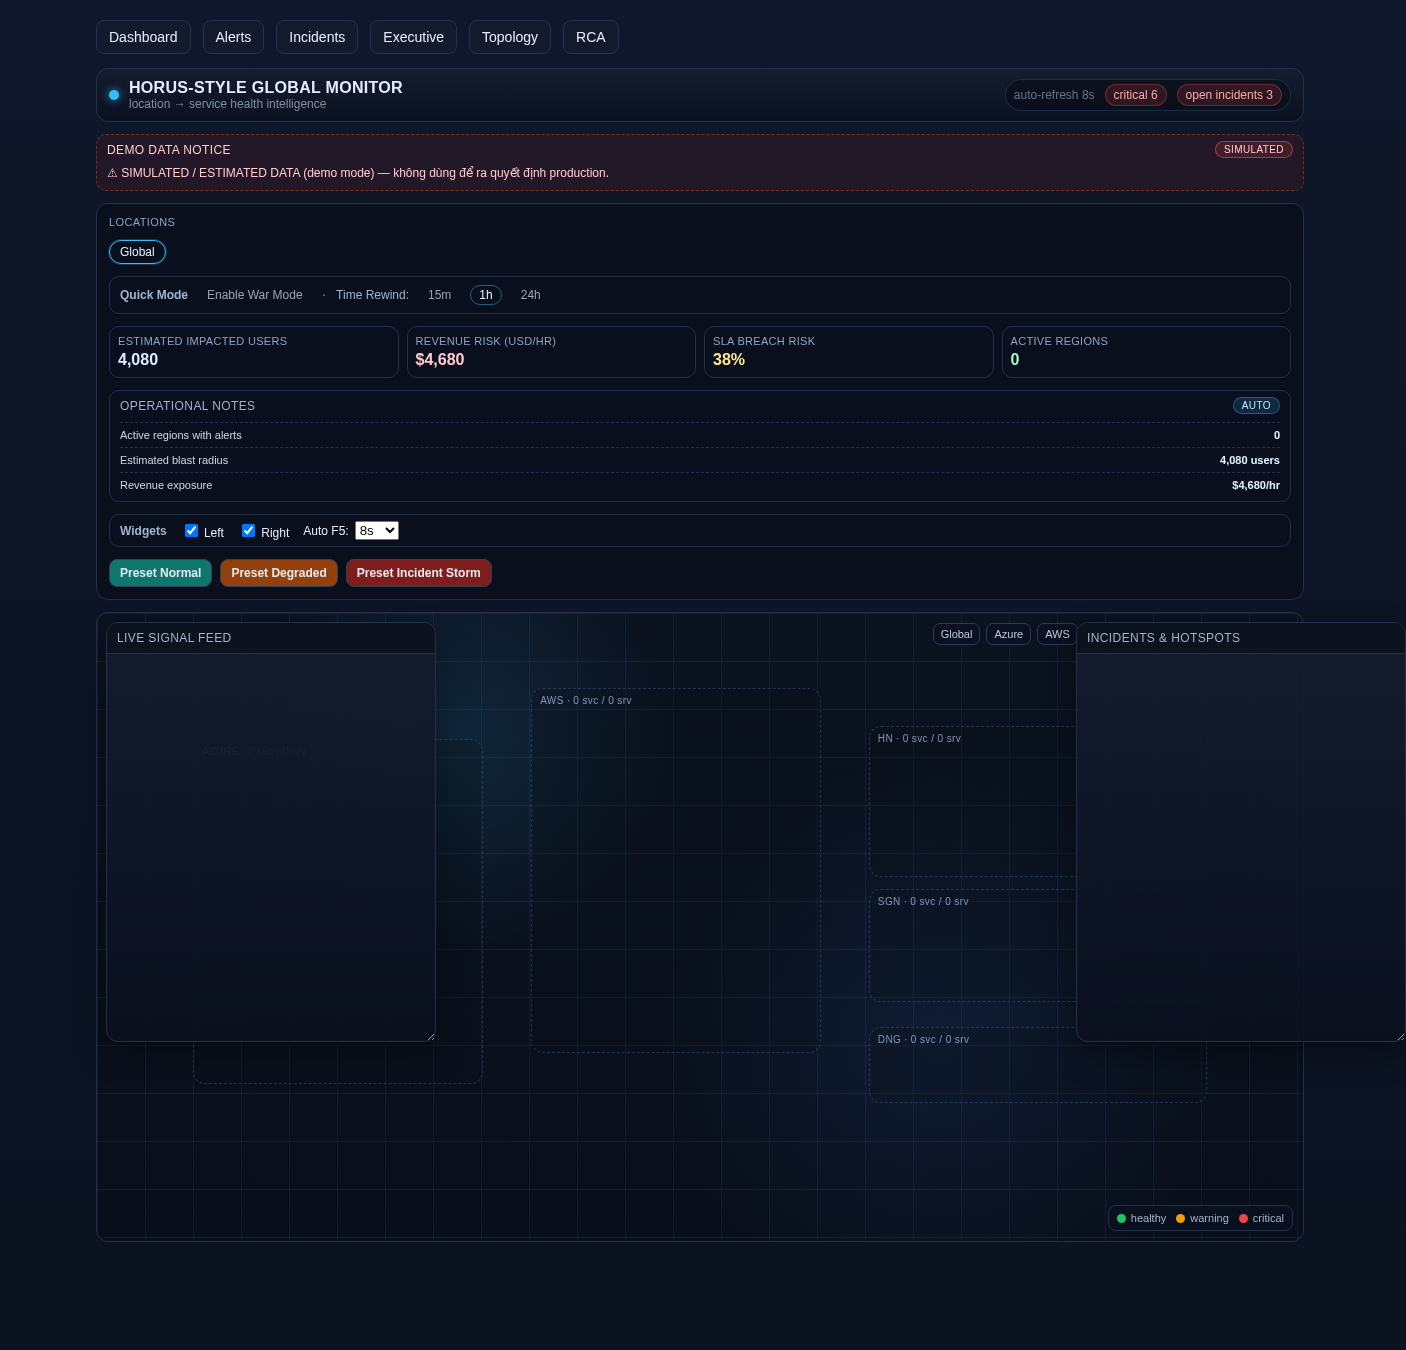
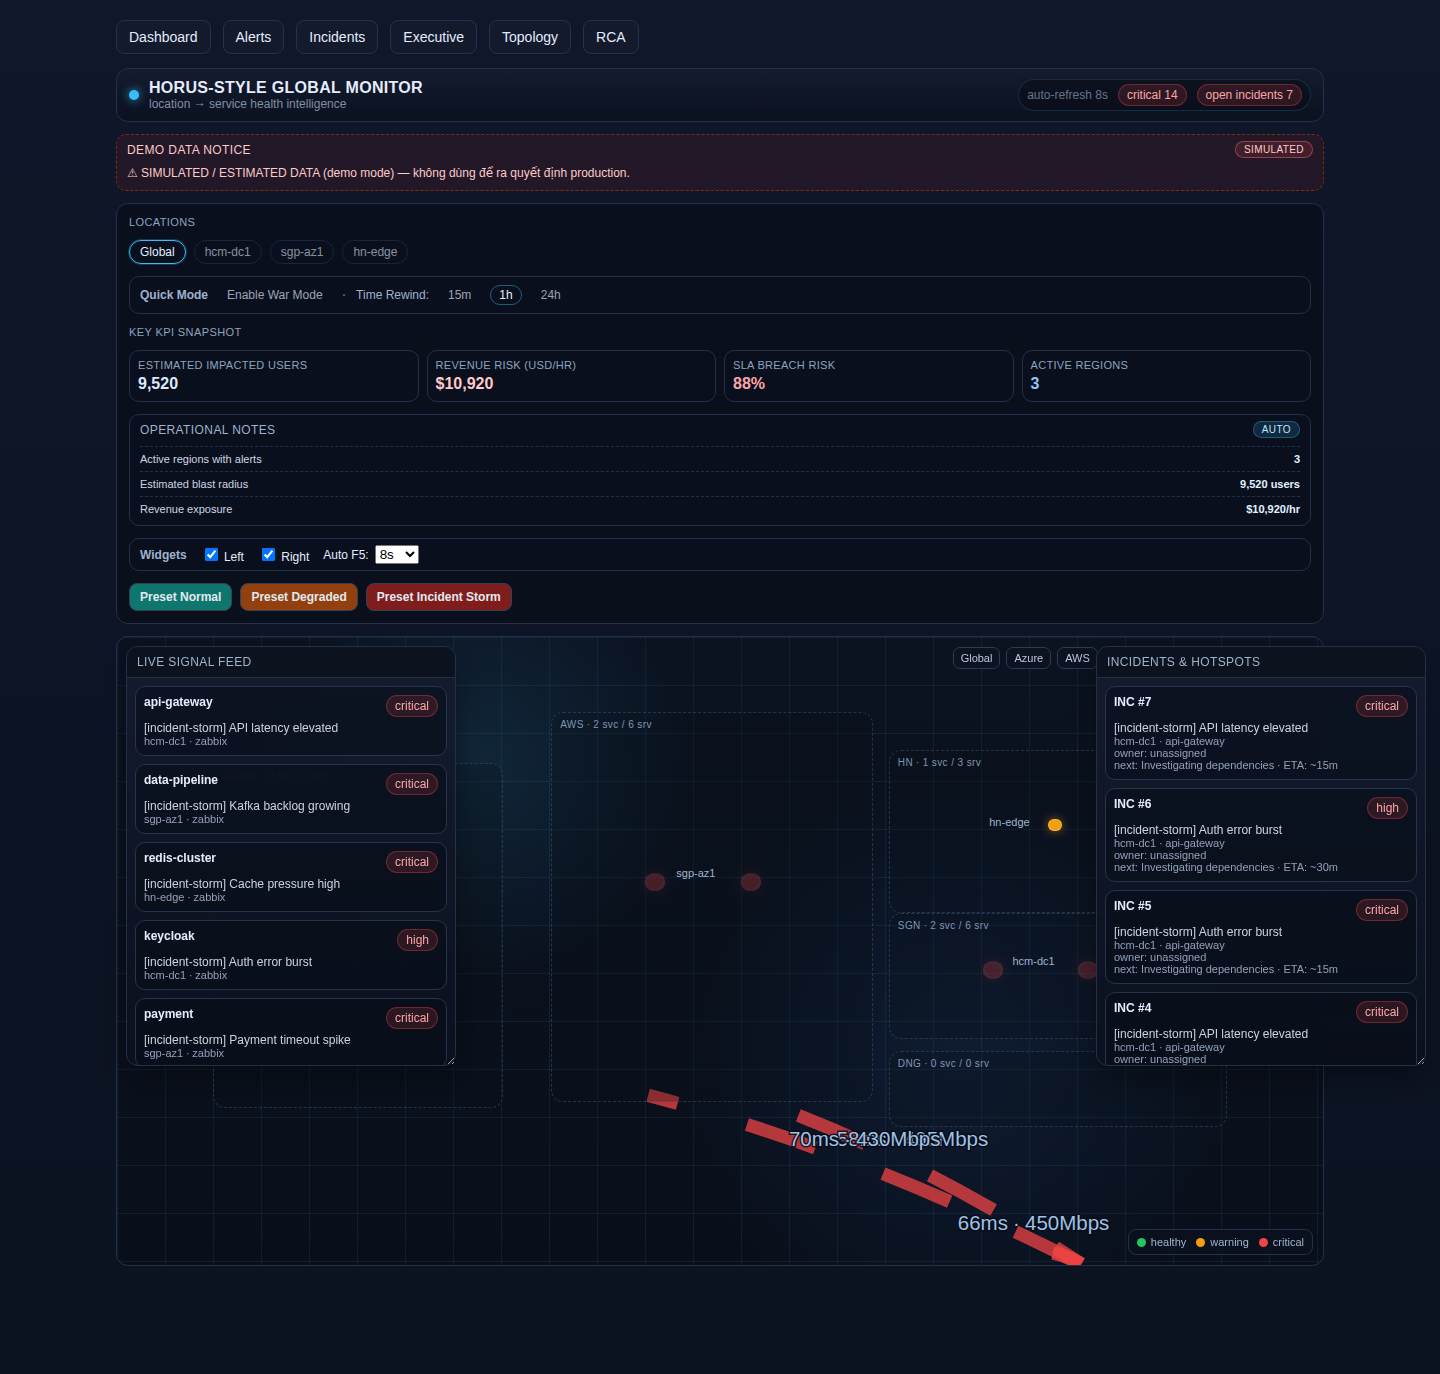
Add KPI snapshot label on Home

diff --git a/worldmonitor-hybrid/web/app/page.js b/worldmonitor-hybrid/web/app/page.js
@@ -212,6 +212,7 @@ export default async function DashboardPage({ searchParams }) {
           ))}
         </div>
 
+        <div className={styles.sectionLabel}>Key KPI Snapshot</div>
         <div className={styles.metricGrid}>
           <div className={styles.metricCard}>
             <div className={styles.metricLabel}>Estimated impacted users</div>

diff --git a/worldmonitor-hybrid/CHANGELOG.md b/worldmonitor-hybrid/CHANGELOG.md
@@ -33,6 +33,7 @@
 - Khi chuyển production, thay fake server/IP và network metrics bằng dữ liệu thật từ DB/API.
 
 ### Changed (latest rounds)
+- Home: thêm nhãn "Key KPI Snapshot" để nhóm KPI rõ ràng hơn khi quét nhanh.
 - Tối ưu lớp gọi API bằng cache token ngắn hạn + chống login đồng thời, giảm overhead auth lặp lại khi Home fetch nhiều endpoint.
 - Tối ưu data flow Home: gom fetch topology/incidents/alerts chạy song song và tái sử dụng topology global khi đang ở chế độ `location=all` để tránh gọi API trùng.
 - Home: chuyển filter location thành pill chips rõ trạng thái active/inactive để dễ scan.
